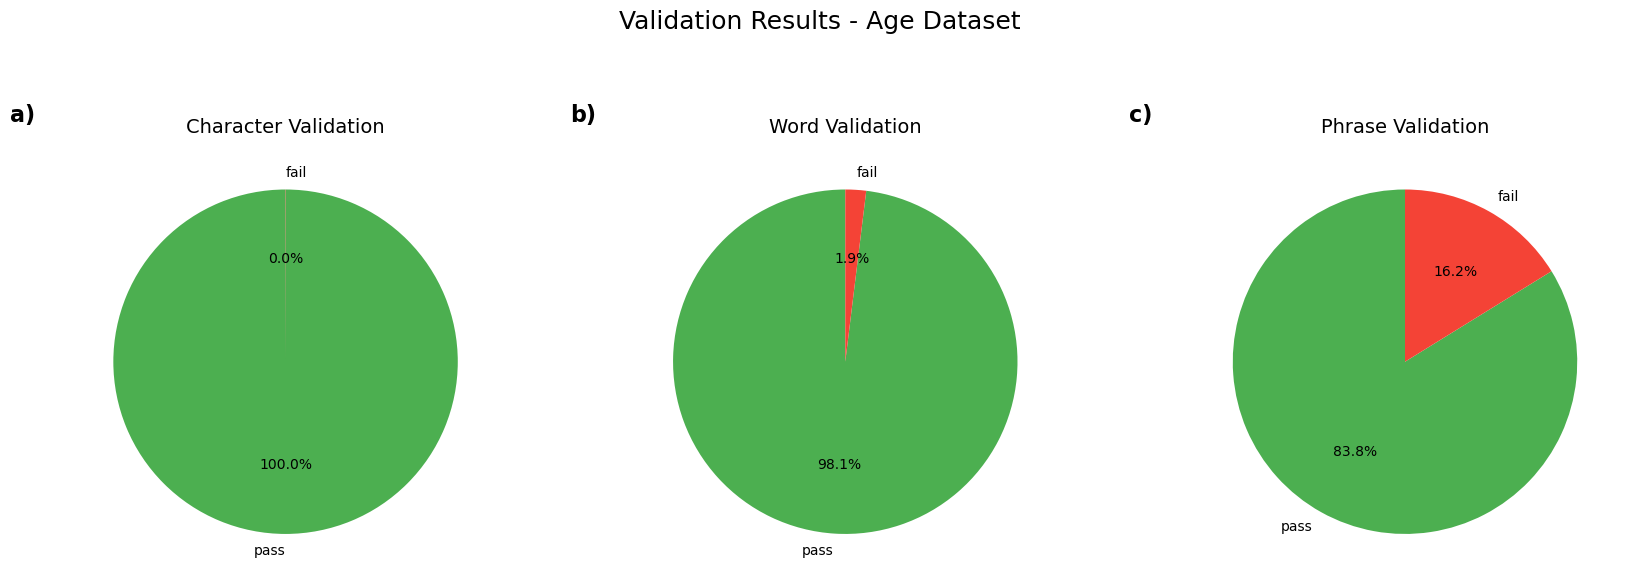
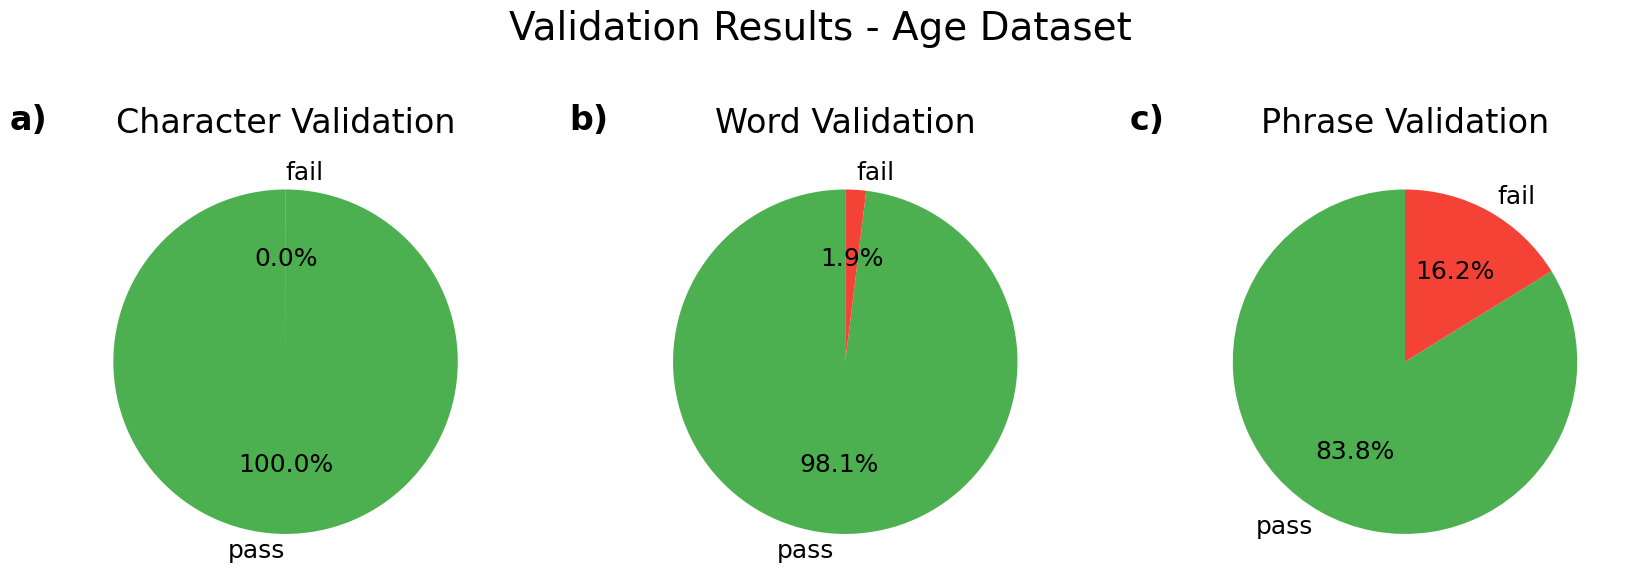
Update pie charts with bigger labels

diff --git a/scripts/calculate_metrics.py b/scripts/calculate_metrics.py
@@ -488,15 +488,15 @@ def plot_combined_validation_pie_charts(data, style):
         counts = counts.reindex(["pass", "fail"], fill_value=0)
 
         # Plot pie chart
-        ax.pie(counts, labels=counts.index, autopct='%1.1f%%', startangle=90, colors=['#4CAF50', '#F44336'])
-        ax.set_title(title, fontsize=14, pad=10)  # Keep subtitle centered and add padding
+        ax.pie(counts, labels=counts.index, autopct='%1.1f%%', startangle=90, colors=['#4CAF50', '#F44336'], textprops={'fontsize': 18})
+        ax.set_title(title, fontsize=24, pad=10)  # Keep subtitle centered and add padding
 
         # Add subplot label in the top left corner
-        ax.text(-1.6, 1.5, f"{label})", fontsize=16, fontweight='bold', va='top', ha='left')
+        ax.text(-1.6, 1.5, f"{label})", fontsize=24, fontweight='bold', va='top', ha='left')
 
     # Adjust layout to reduce space between the main title and the individual subplots
     plt.subplots_adjust(top=0.85, wspace=0.3, hspace=0.1)
-    plt.suptitle(f"Validation Results - {printable_style[style]}", fontsize=18, y=0.92)
+    plt.suptitle(f"Validation Results - {printable_style[style]}", fontsize=28, y=0.92)
 
     # Save the combined figure in the output directory
     output_file = f"{style}/analysis/figures/{style}_combined_validation_pie_charts.png"
